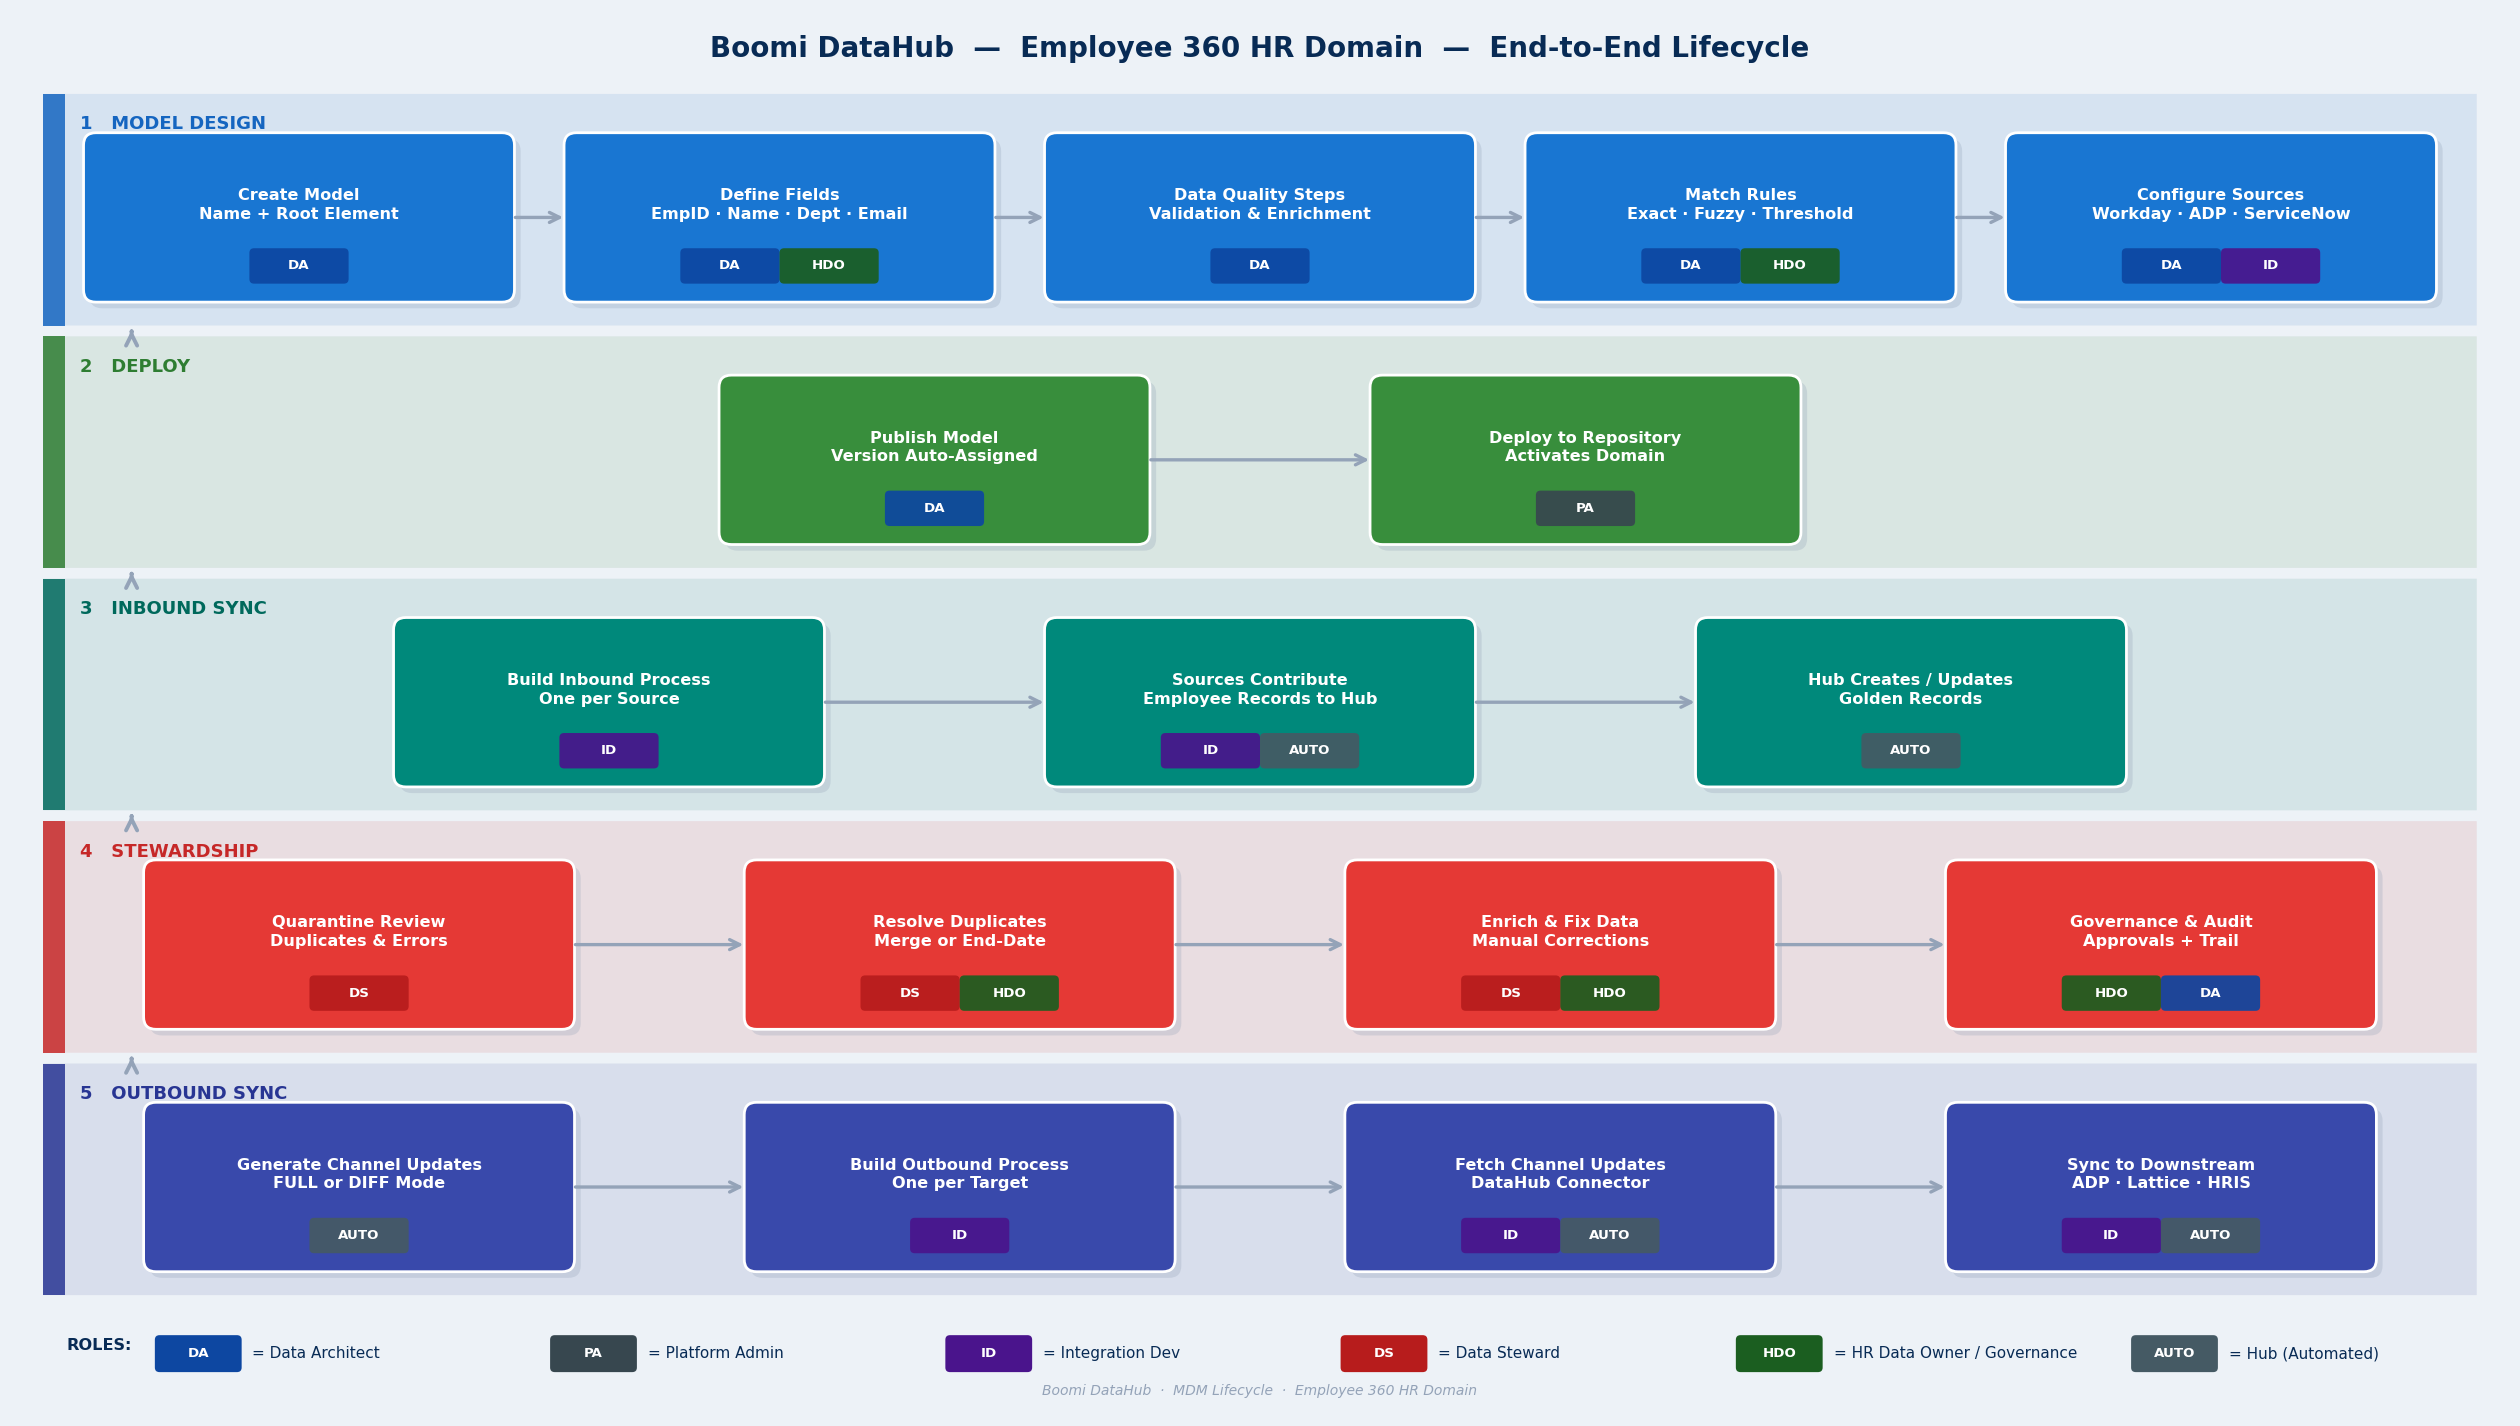
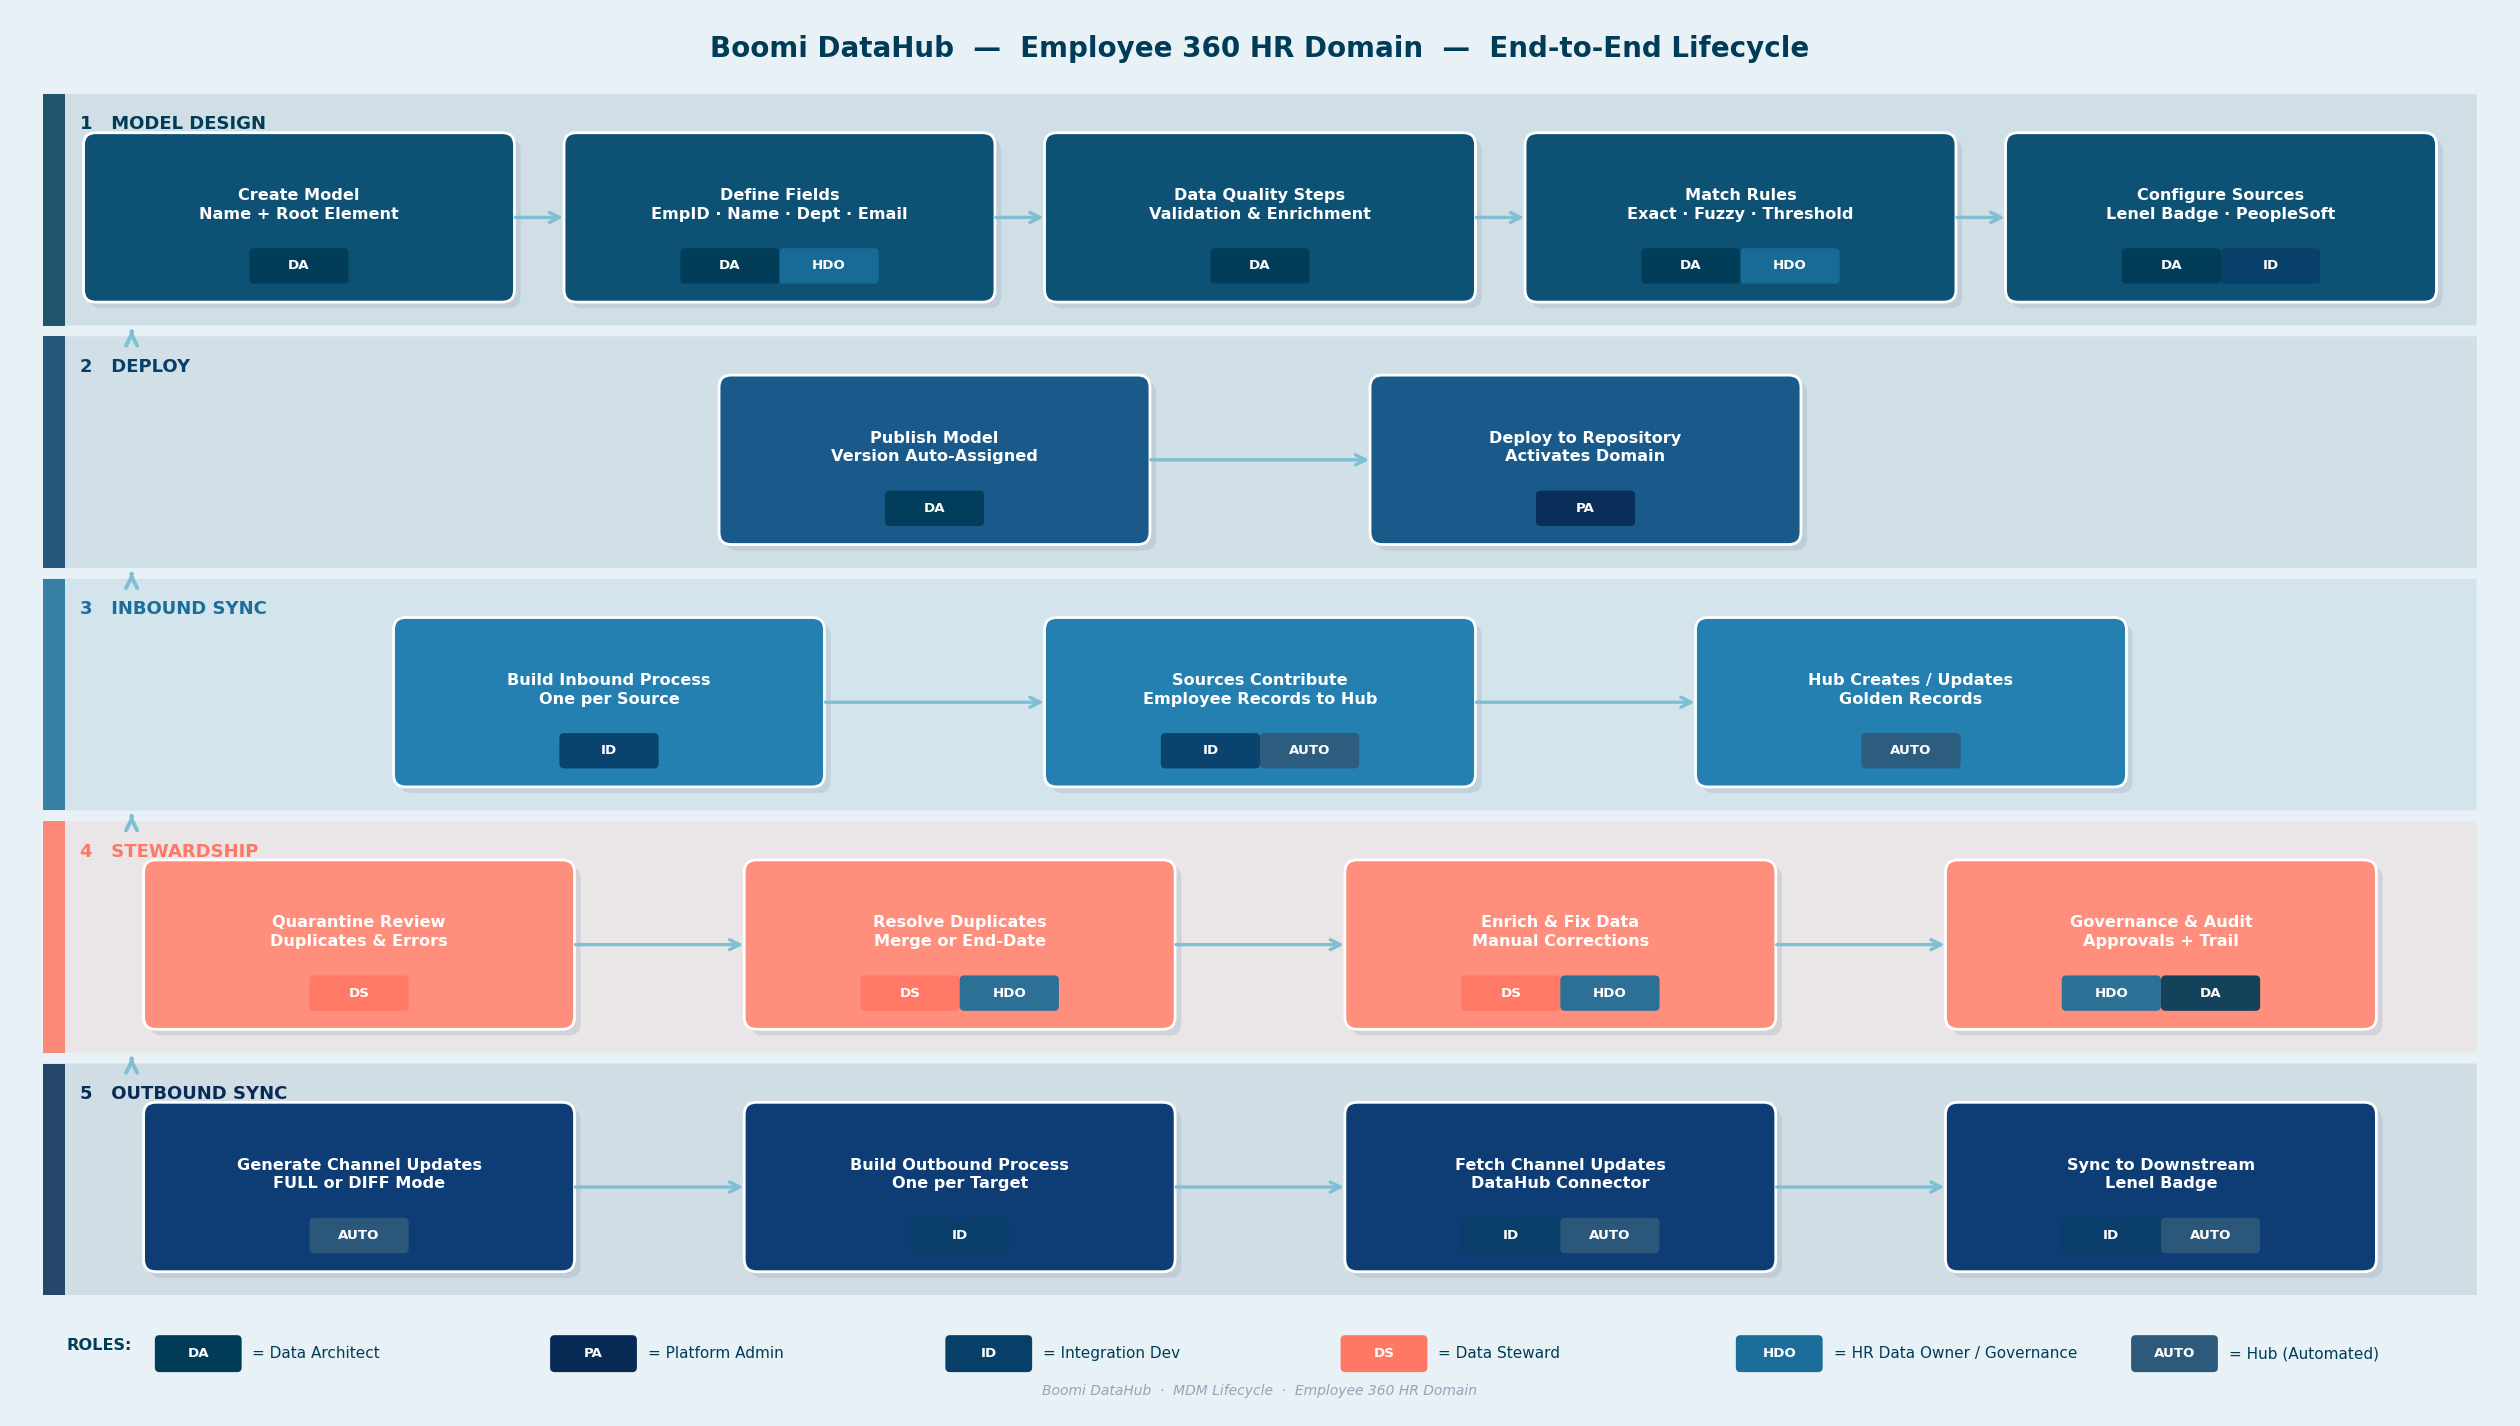
Updating UTSW graphic

diff --git a/active-development/scripts/boomi/generate-datahub-e2e-flow.py b/active-development/scripts/boomi/generate-datahub-e2e-flow.py
@@ -12,7 +12,13 @@ from matplotlib.patches import FancyBboxPatch
 # ─── Canvas — 16:9 for Google Slides ──────────────────────────────────────────
 FW, FH = 16, 9
 fig, ax = plt.subplots(figsize=(FW, FH))
-BG = '#EDF2F7'
+# ── Boomi brand palette ────────────────────────────────────────────────────────
+# Primary:    #003C57  (navy/teal,  Pantone 302 C)
+# Deep navy:  #082B55  (Madison,    Brandfetch)
+# Brand blue: #083F69  (Brandfetch)
+# Coral:      #FF7864  (accent,     Pantone 805 C)
+# Derived tints from the two anchors fill the remaining roles.
+BG = '#E8F2F6'   # very light tint of Boomi primary navy
 fig.patch.set_facecolor(BG)
 ax.set_facecolor(BG)
 ax.set_xlim(0, FW)
@@ -20,28 +26,28 @@ ax.set_ylim(0, FH)
 ax.axis('off')
 
 WHITE      = '#FFFFFF'
-NAVY       = '#082B55'
-ARROW_CLR  = '#94A3B8'
+NAVY       = '#003C57'   # Boomi primary navy (text / titles)
+ARROW_CLR  = '#7FBFD4'   # light tint of primary navy
 
 # ─── Phase definitions ─────────────────────────────────────────────────────────
 # (display label, header/accent color, step fill color)
 PHASES = [
-    ('1   MODEL DESIGN',  '#1565C0', '#1976D2'),
-    ('2   DEPLOY',        '#2E7D32', '#388E3C'),
-    ('3   INBOUND SYNC',  '#00695C', '#00897B'),
-    ('4   STEWARDSHIP',   '#C62828', '#E53935'),
-    ('5   OUTBOUND SYNC', '#283593', '#3949AB'),
+    ('1   MODEL DESIGN',  '#003C57', '#0D5175'),   # Boomi primary navy
+    ('2   DEPLOY',        '#083F69', '#1A5A8A'),   # Boomi brand blue
+    ('3   INBOUND SYNC',  '#1A6E99', '#2480B0'),   # medium blue tint
+    ('4   STEWARDSHIP',   '#FF7864', '#FF8E7D'),   # Boomi coral accent
+    ('5   OUTBOUND SYNC', '#082B55', '#0E3D75'),   # Boomi deep navy
 ]
 
 # ─── Persona badge definitions ──────────────────────────────────────────────────
 # key: (badge_color, text_color, long_label)
 PERSONA = {
-    'DA':   ('#0D47A1', WHITE, 'Data Architect'),
-    'PA':   ('#37474F', WHITE, 'Platform Admin'),
-    'ID':   ('#4A148C', WHITE, 'Integration Dev'),
-    'DS':   ('#B71C1C', WHITE, 'Data Steward'),
-    'HDO':  ('#1B5E20', WHITE, 'HR Data Owner / Governance'),
-    'AUTO': ('#455A64', WHITE, 'Hub (Automated)'),
+    'DA':   ('#003C57', WHITE, 'Data Architect'),          # Boomi primary navy
+    'PA':   ('#082B55', WHITE, 'Platform Admin'),          # Boomi deep navy
+    'ID':   ('#083F69', WHITE, 'Integration Dev'),         # Boomi brand blue
+    'DS':   ('#FF7864', WHITE, 'Data Steward'),            # Boomi coral
+    'HDO':  ('#1A6E99', WHITE, 'HR Data Owner / Governance'), # medium blue tint
+    'AUTO': ('#2D5A7B', WHITE, 'Hub (Automated)'),         # mid-tone tint
 }
 
 # ─── Steps per phase (2-line labels for slide readability) ────────────────────
@@ -51,7 +57,7 @@ STEPS = [
         ('Define Fields\nEmpID · Name · Dept · Email', ['DA', 'HDO']),
         ('Data Quality Steps\nValidation & Enrichment',['DA']),
         ('Match Rules\nExact · Fuzzy · Threshold',     ['DA', 'HDO']),
-        ('Configure Sources\nWorkday · ADP · ServiceNow', ['DA', 'ID']),
+        ('Configure Sources\nLenel Badge · PeopleSoft', ['DA', 'ID']),
     ],
     [  # Phase 2: Deploy
         ('Publish Model\nVersion Auto-Assigned',       ['DA']),
@@ -72,7 +78,7 @@ STEPS = [
         ('Generate Channel Updates\nFULL or DIFF Mode',['AUTO']),
         ('Build Outbound Process\nOne per Target',     ['ID']),
         ('Fetch Channel Updates\nDataHub Connector',   ['ID', 'AUTO']),
-        ('Sync to Downstream\nADP · Lattice · HRIS',  ['ID', 'AUTO']),
+        ('Sync to Downstream\nLenel Badge',            ['ID', 'AUTO']),
     ],
 ]
 
